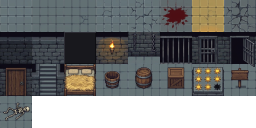
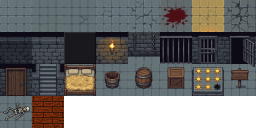
Tile novo: piso de madeira do Carlos (reduzido de 64 para 32 px), no fim do atlas
Claude-Session: https://claude.ai/code/session_01JfamrDqYGnh6nRSnpEDME8

Changed region(s): [[0.125, 0.75, 0.25, 1.0]]

diff --git a/tools/montar_atlas.py b/tools/montar_atlas.py
@@ -25,7 +25,7 @@ TERRENO = [
     ("correntes", "#"), ("grade", "|"), ("cela_fechada", "D"), ("cela_aberta", "d"),
     ("porta", "W"), ("escada", "X"), ("cama", "B"), ("balde", "U"),
     ("barril", "R"), ("caixa", "Q"), ("altar", "A"), ("placa", "S"),
-    ("esqueleto", "K"),
+    ("esqueleto", "K"), ("piso_madeira", "."),
 ]
 
 # (imagem, letra). Folhas 3x4 usam o primeiro quadro (de frente).
